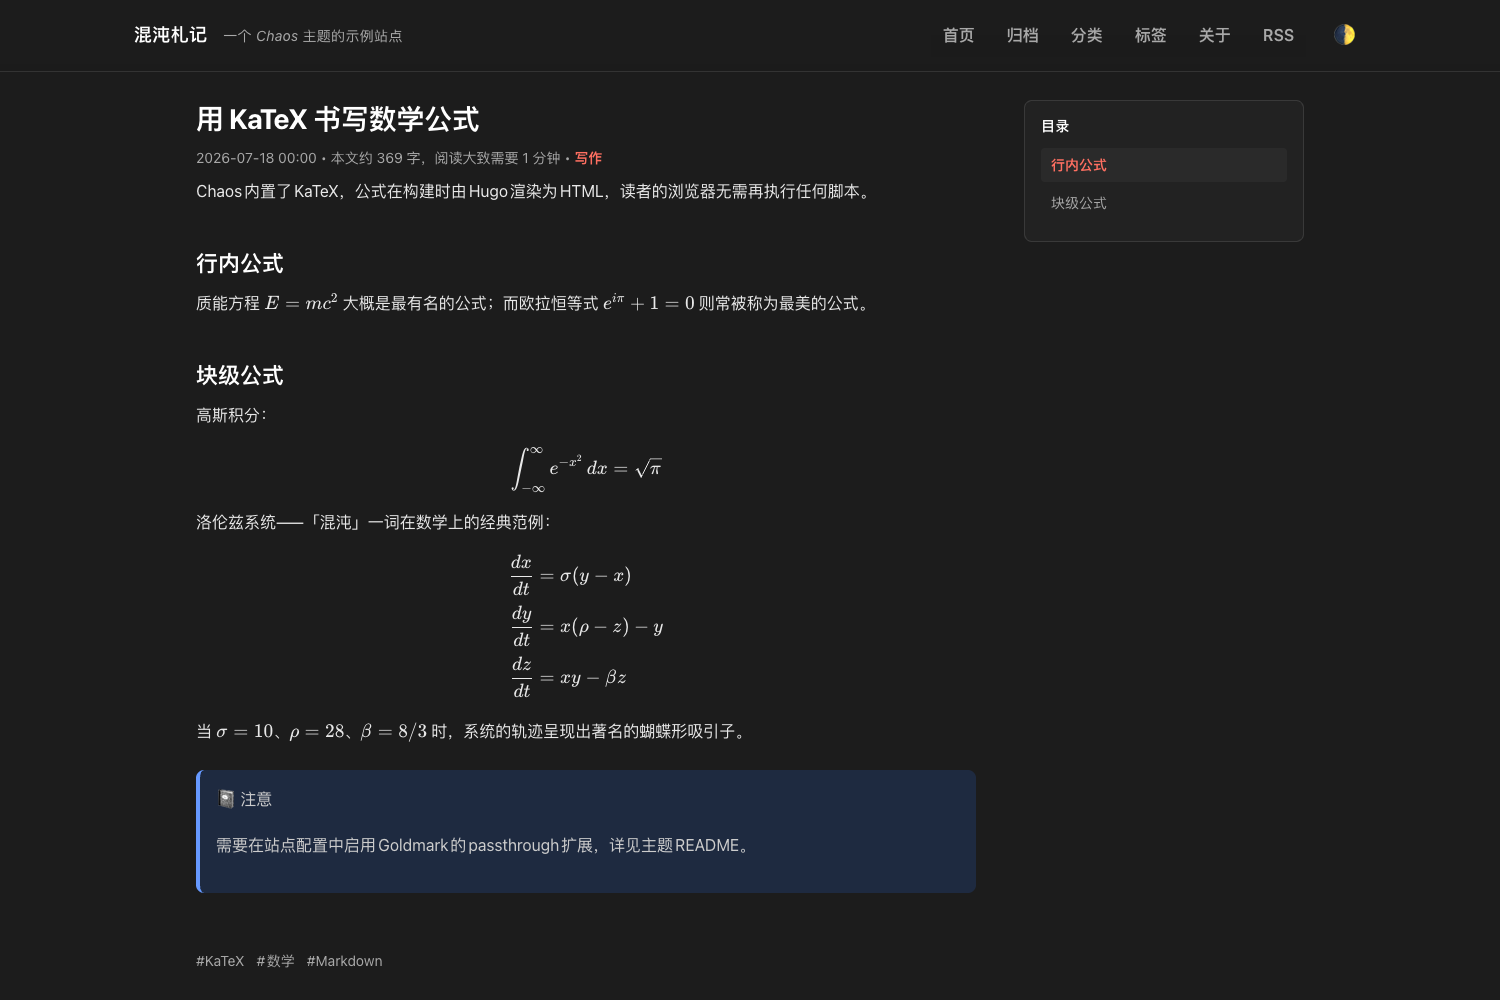
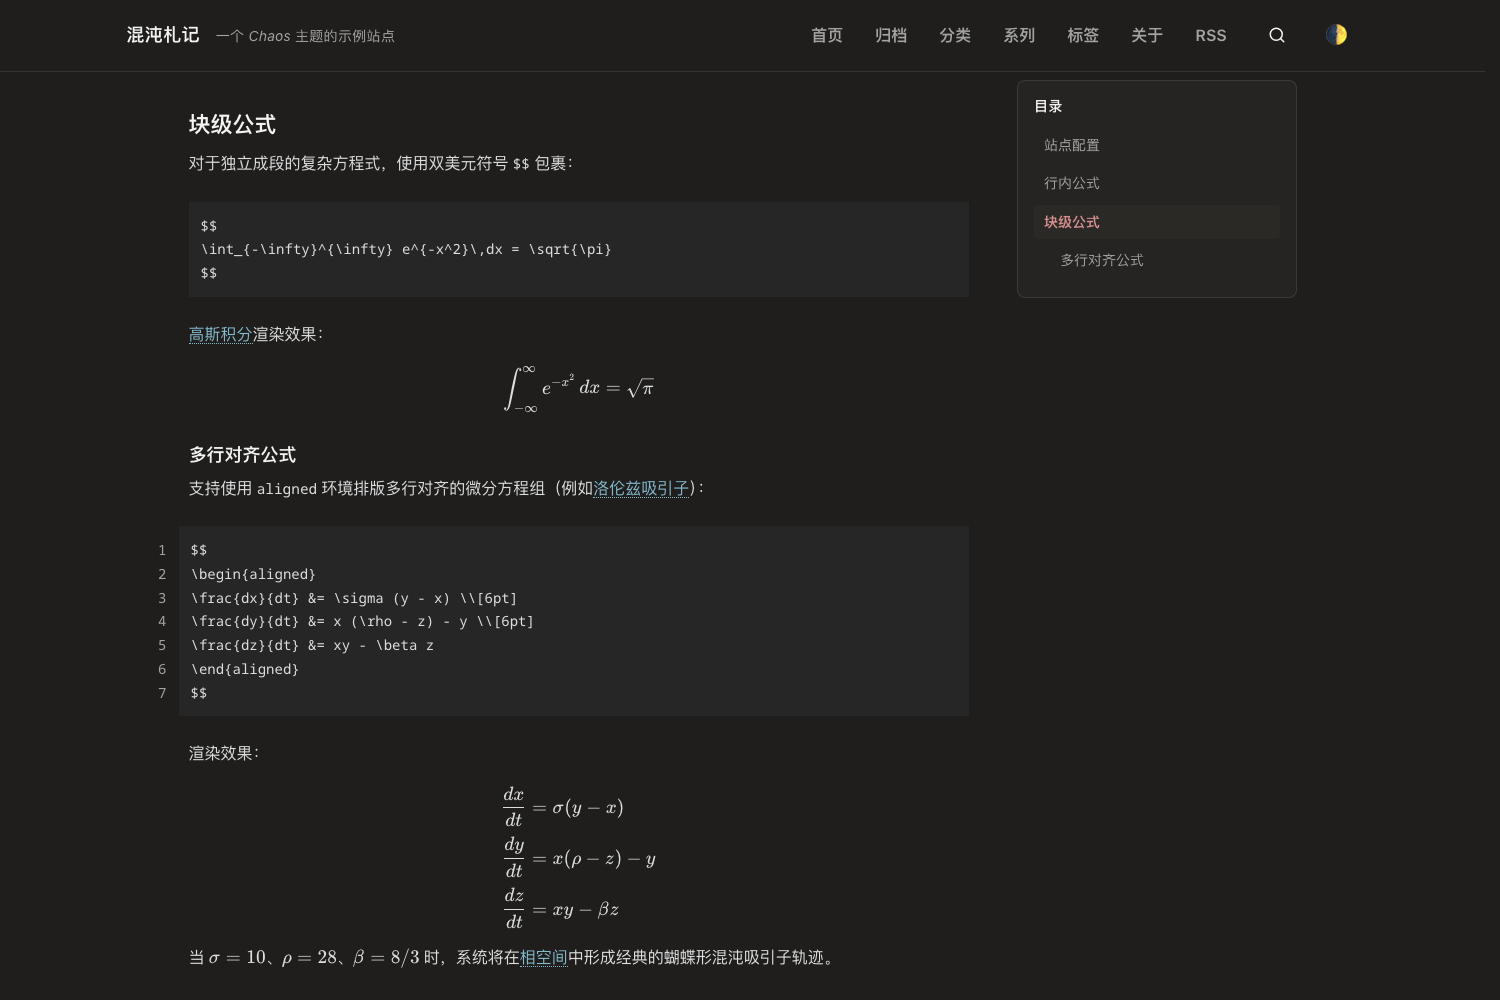
docs: document the visual language, palette and accessibility targets
Replace the per-token Wairo table, whose names did not match their
values and which claimed AAA contrast the theme does not promise, with
light/dark role tables for the palette and the syntax colours, naming
each colour as 和色大辞典 publishes it. State the rule that a colour
tuned away from its reference drops the name, and describe the ground
tiers, the shared card shapes, the code block and search treatments,
and the WCAG AA targets. Record the visual language in AGENTS.md so
contributors keep to it.

Retake the README screenshots and the themes-site thumbnail from the
example site, which still showed the old palette, rails and glass header.

diff --git a/README.md b/README.md
@@ -12,8 +12,8 @@ Screenshots are taken from the bundled [example site](#example-site).
 
 - **Performance-focused**: Lightweight with minimal dependencies, no JavaScript frameworks
 - **Dark/Light/Auto Mode**: Three-state toggle (🌓 Auto / ☀ Light / 🌙 Dark) with live real-time OS preference synchronization
-- **Japanese Traditional Color Palette**: Crafted with classical 和色 (*Wairo*) aesthetics — 白練 (*Shiro-neri*), 墨 (*Sumi*), 红緋 (*Hi-iro*), 瑠璃色 (*Ruri-iro*), and 生成色 (*Kinari-iro*) — balancing paper-like tranquility with WCAG AAA accessibility
-- **Responsive Design**: Mobile-first layout with hamburger menu and glass-morphism effects
+- **Japanese Traditional Color Palette**: Built from classical 和色 (*Wairo*) at their published values — 生成り色 (*Kinari-iro*), 墨 (*Sumi*), 蘇芳 (*Suō*), 藍色 (*Ai-iro*) and 練色 (*Neri-iro*) by day; 白鼠 (*Shiro-nezumi*), 退紅 (*Arazome*) and 浅縹 (*Asa-hanada*) by night — with WCAG AA contrast targets
+- **Responsive Design**: Mobile-first layout with hamburger menu and restrained overlays
 - **Table of Contents**: Automatic TOC for article pages with sticky sidebar and active section highlighting
 - **Instant Page Transitions & Prerendering**: Native 0ms navigation via W3C Speculation Rules API with fallback to [instant.page](https://instant.page/)
 - **View Transitions**: Native cross-document transitions between pages via CSS `@view-transition`
@@ -425,31 +425,90 @@ Chaos draws inspiration from Japanese editorial minimalism and traditional paper
 
 ### Color Palette (和色 *Wairo*)
 
-The light mode palette is mapped to classical Japanese colors, pairing organic tones with high-contrast text to exceed WCAG 2.1 AAA accessibility standards:
+Accents and ink use traditional colours at the values published in
+[和色大辞典](https://www.colordic.org/w). Sources disagree on many of these
+colours (墨 alone ranges from `#1C1C1C` to `#595857`), so that one reference
+is used throughout, and a colour tuned away from it drops the name. Quiet
+grounds, whose lightness must land on a contrast tier, are tints described
+by what they derive from.
 
-| CSS Variable | Value | Japanese Name | Role & Intent |
-| :--- | :--- | :--- | :--- |
-| `--bg` | `#FAFAFA` | 白練 (*Shiro-neri*) | Soft, unbleached off-white base that eliminates harsh screen glare |
-| `--surface` | `#FFFFFF` | 純白 (*Junpaku*) | Crisp panel surfaces providing subtle elevation |
-| `--text` | `#222222` | 墨 (*Sumi*) | Deep soot-black ink for long-form reading (15.3:1 contrast) |
-| `--heading` | `#111111` | 漆黑 (*Shikkoku*) | Pitch-black lacquer tone for section headings (18.2:1 contrast) |
-| `--muted` | `#545454` | 墨灰 (*Sumi-hai*) | Muted graphite for metadata, timestamps, and captions (5.8:1 contrast) |
-| `--primary` | `#A23E48` | 红緋 (*Hi-iro*) | Deep scarlet accent inspired by cinnabar seal paste and lacquerware |
-| `--accent` | `#2E5A88` | 瑠璃色 (*Ruri-iro*) | Lapis lazuli blue for blockquote borders and secondary markers |
-| `--paper` | `#F0E6D2` | 生成色 (*Kinari-iro*) | Unbleached washi tone for table headers, active sidebar jumps, and collapsible TOC |
-| `--link` | `#0050A5` | 藍濃 (*Ai-nō*) | Distinct high-contrast blue meeting WCAG AAA (7.2:1 contrast) |
+| Role | Light | Dark |
+| :--- | :--- | :--- |
+| Page / panel | 生成り色 `#FBFAF5` / 白 `#FFFFFF` | `#1F1E1D` / `#252422` |
+| Headings | 暗黒色 `#16160E` | 白練 `#F3F3F2` |
+| Body / secondary text | 黒 `#2B2B2B` / 墨 `#595857` | 白鼠 `#DCDDDD` / 薄墨色 `#A3A3A2` |
+| Primary accent / hover | 蘇芳 `#9E3D3F` / 葡萄茶 `#6C2C2F` | 退紅 `#D69090` / 薄柿 `#D4ACAD` |
+| Blue accent and links / hover | 藍色 `#165E83` / 紺色 `#223A70` | 浅縹 `#84B9CB` / 秘色色 `#ABCED8` |
+| Active and hover ground | 練色 `#EDE4CD` | `#2B2925` |
+| Quote and chrome ground | `#F5F2EB` (tint toward 練色) | `#282623` |
+| Table header | 黒 bar, 生成り色 text | `#34322D` bar, 白練 text |
+| Callout inks | 藍色, 千歳緑, 柿茶, 蘇芳, 菖蒲色 | 浅縹, 薄青, 伽羅色, 退紅, 藤紫 |
+| Callout grounds | 月白, tint, tint, 薄桜, tint | tints |
+| Highlight | 山吹色 at 25% | 山吹色 at 16% |
 
-In Dark Mode, the palette transitions into a restful midnight theme anchored on `#1C1C1C` with warm coral orange (`#FF6F61` 珊瑚橙) highlights and soft charcoal paper surfaces (`#2A2A2A`).
+Dark mode keeps the roles rather than inverting the values: a near-neutral
+warm charcoal page, off-white rather than white ink, and each accent swapped
+for a paler colour of the same family (蘇芳 → 退紅, 藍 → 浅縹). The dark
+accents and callout inks share one lightness band, so none glares over the
+others. Tinted grounds share one tier per mode, about 1.07:1 against the
+page in light mode and 1.10:1 in dark; code sits at the same or one step
+above. Every text colour clears 4.5:1 on each ground it is used on.
+
+### Shapes and hierarchy
+
+- Content cards (quotes, callouts, embeds), sidebar panels and the search dialog
+  share `--radius-card` (8px). Controls use 4–6px corners; edge-to-edge mobile
+  drawers stay square. `--radius` remains an alias for the card radius.
+- Quotes and callouts use quiet tinted grounds without accent rails. Callouts
+  retain explicit titles and icons, with matching coloured headings; colour is
+  not the only indication of meaning. The feed uses the same treatment.
+- Code blocks, including plain preformatted text, keep rectangular neutral
+  grounds. Inline code remains unboxed. Syntax colours are tuned separately for
+  legibility, including highlighted lines. Both modes share font weights and
+  styles; changing the colour scheme must not change the code typography.
+- Article lists remain separated by whitespace; a list entry does not need a
+  box merely because cards elsewhere are rounded. Tables retain their grid.
+- Search uses tinted input and footer areas, an open results area and filled
+  selection states rather than separator rules or outlined badges. Focus
+  outlines remain visible; forced-colour mode restores essential boundaries.
+- Sticky headers have an opaque ground so underlying content cannot compromise
+  text contrast. Shadows are reserved for floating controls and overlays.
+
+### Accessibility
+
+Target WCAG AA: normal text at least 4.5:1, and essential graphical indicators
+at least 3:1. Decorative card boundaries can remain subtle. Prose links retain
+underlines, keyboard focus has a visible outline, and reduced-motion preferences
+suppress transitions. Avoid lowering text opacity to create hierarchy: use the
+secondary-text token instead. Token checks do not replace keyboard, zoom,
+screen-reader and cross-browser testing of the rendered pages.
 
 ## Customization
 
 ### Syntax Highlighting
 
-The theme includes built-in syntax highlighting themes:
-- Light mode: GitHub
-- Dark mode: GitHub Dark
+Code is coloured by role — keyword, string, constant, function, variable,
+tag, comment — following GitHub's grouping and staying near its hues, so code
+reads as it does on github.com, but in traditional colours:
 
-Configure in `config.toml`:
+| Role | Light | Dark |
+| :--- | :--- | :--- |
+| Keyword, operator, `#include` | 紅海老茶 `#A73836` | 紅梅色 `#F2A0A1` |
+| String, included file | 紺青 `#192F60` | 空色 `#A0D8EF` |
+| Constant, number, escape | 瑠璃色 `#1E50A2` | 勿忘草色 `#89C3EB` |
+| Function, builtin, attribute | 菖蒲色 `#674196` | 薄葡萄 `#C0A2C7` |
+| Variable, class, entity | 唐茶 `#783C1D` | 杏色 `#F7B977` |
+| Markup tag | 千歳緑 `#316745` | 柳色 `#A8C97F` |
+| Comment, line number | 墨 `#595857` | 薄墨色 `#A3A3A2` |
+
+Highlighted lines take a 山吹色 wash, as `<mark>` does. The dark inks share
+one lightness band at lower chroma than GitHub Dark's, which is what keeps
+them from glaring. The roles are `--syntax-*` properties in `tokens.css`, and
+`syntax.css` maps Chroma's token classes onto them: override a role to recolour
+code, not the classes. After upgrading Hugo, follow
+`assets/css/syntax-upgrade.md` and run `tools/check_chroma.py`.
+
+Chroma must emit classes rather than inline styles:
 
 ```toml
 [markup.highlight]

diff --git a/AGENTS.md b/AGENTS.md
@@ -7,6 +7,11 @@ This document provides essential context for AI models and human contributors co
 ### Design Principles
 * **Minimalism**: Add features only when necessary; prefer simplicity over complexity
 * **Performance First**: Every byte counts - target <10KB total JavaScript, efficient CSS
+* **Visual language**: Use `--radius-card` for content cards and panels, small
+  radii for controls, and square neutral backgrounds for code blocks. Keep
+  prose lists open and unboxed. Use the shared light/dark palette in
+  `assets/css/tokens.css`; verify text against tinted and selected backgrounds
+  as well as the page background.
 * **Accessibility Always**: WCAG 2.1 AA compliance is non-negotiable
 * **Internationalization by Default**: No hardcoded text; proper CJK typography support
 * **Baseline Widely Available**: Use what every major engine has shipped for 30+ months; anything newer is progressive enhancement
